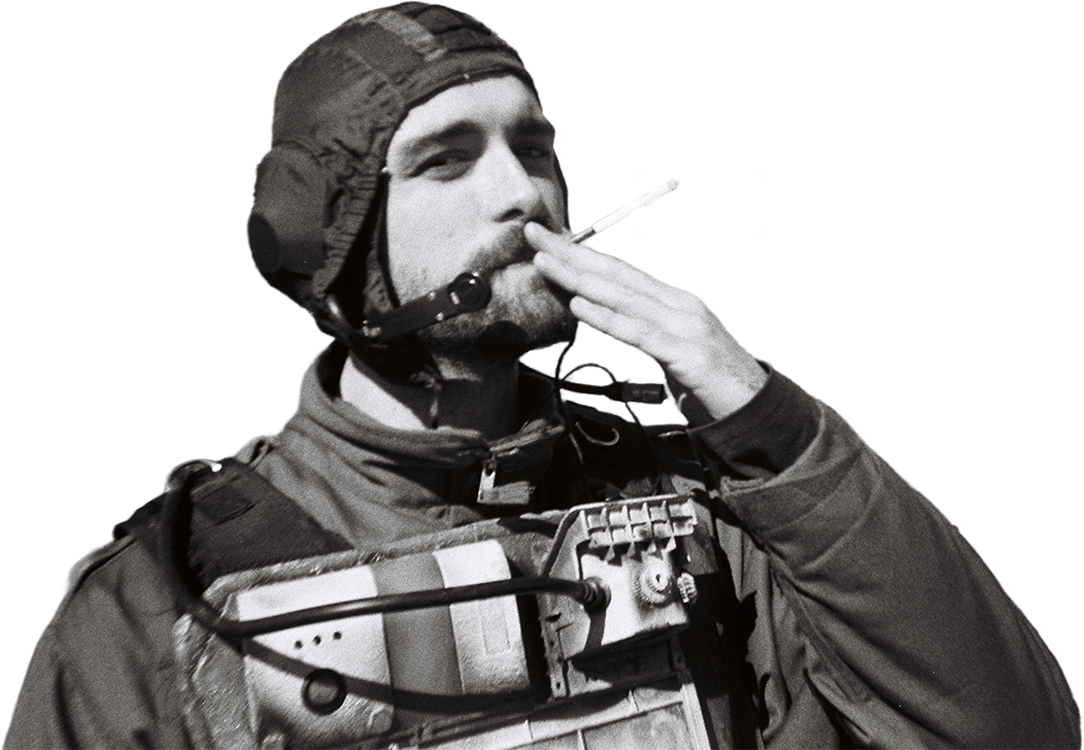
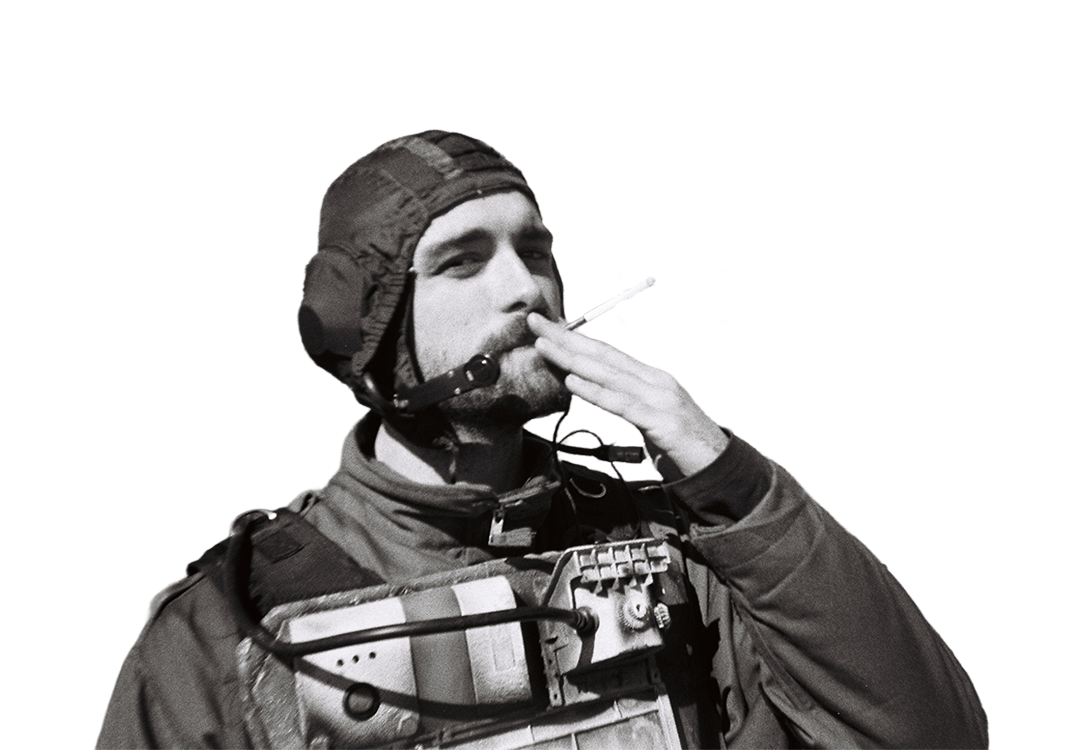
add manny and esther to about-us page

diff --git a/src/pages/AboutUs.tsx b/src/pages/AboutUs.tsx
@@ -41,6 +41,16 @@ const AboutUs = () => {
         name="CHARLIE JONES"
       />
       <MemberFrame
+        imageUrl="/images/about-us/esther.png"
+        variant="white"
+        name="ESTHER SUSHAMES"
+      />
+      <MemberFrame
+        imageUrl="/images/about-us/manny.png"
+        variant="grey"
+        name="MANNY CABALLERO"
+      />
+      <MemberFrame
         imageUrl="/images/about-us/jeremy-brow.png"
         variant="white"
         name="JEREMY BROW"